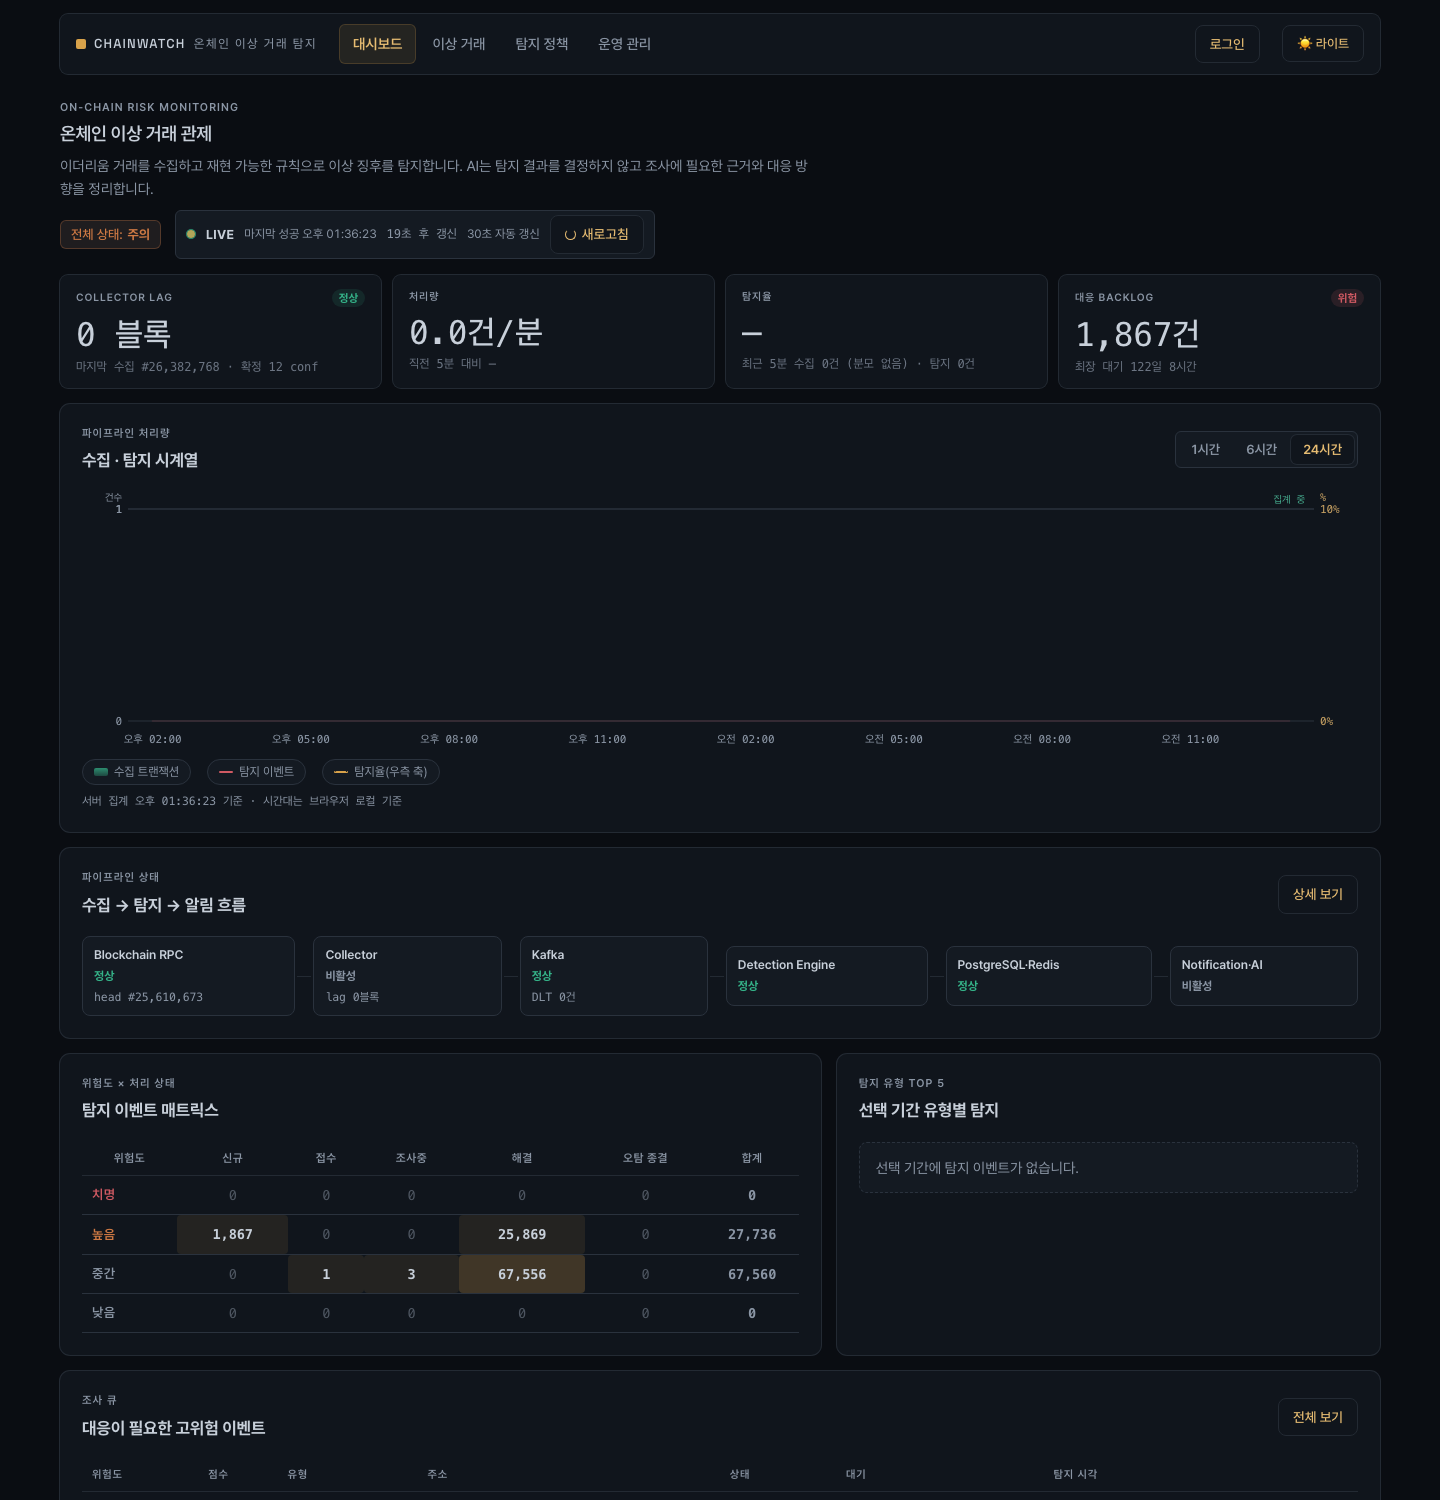
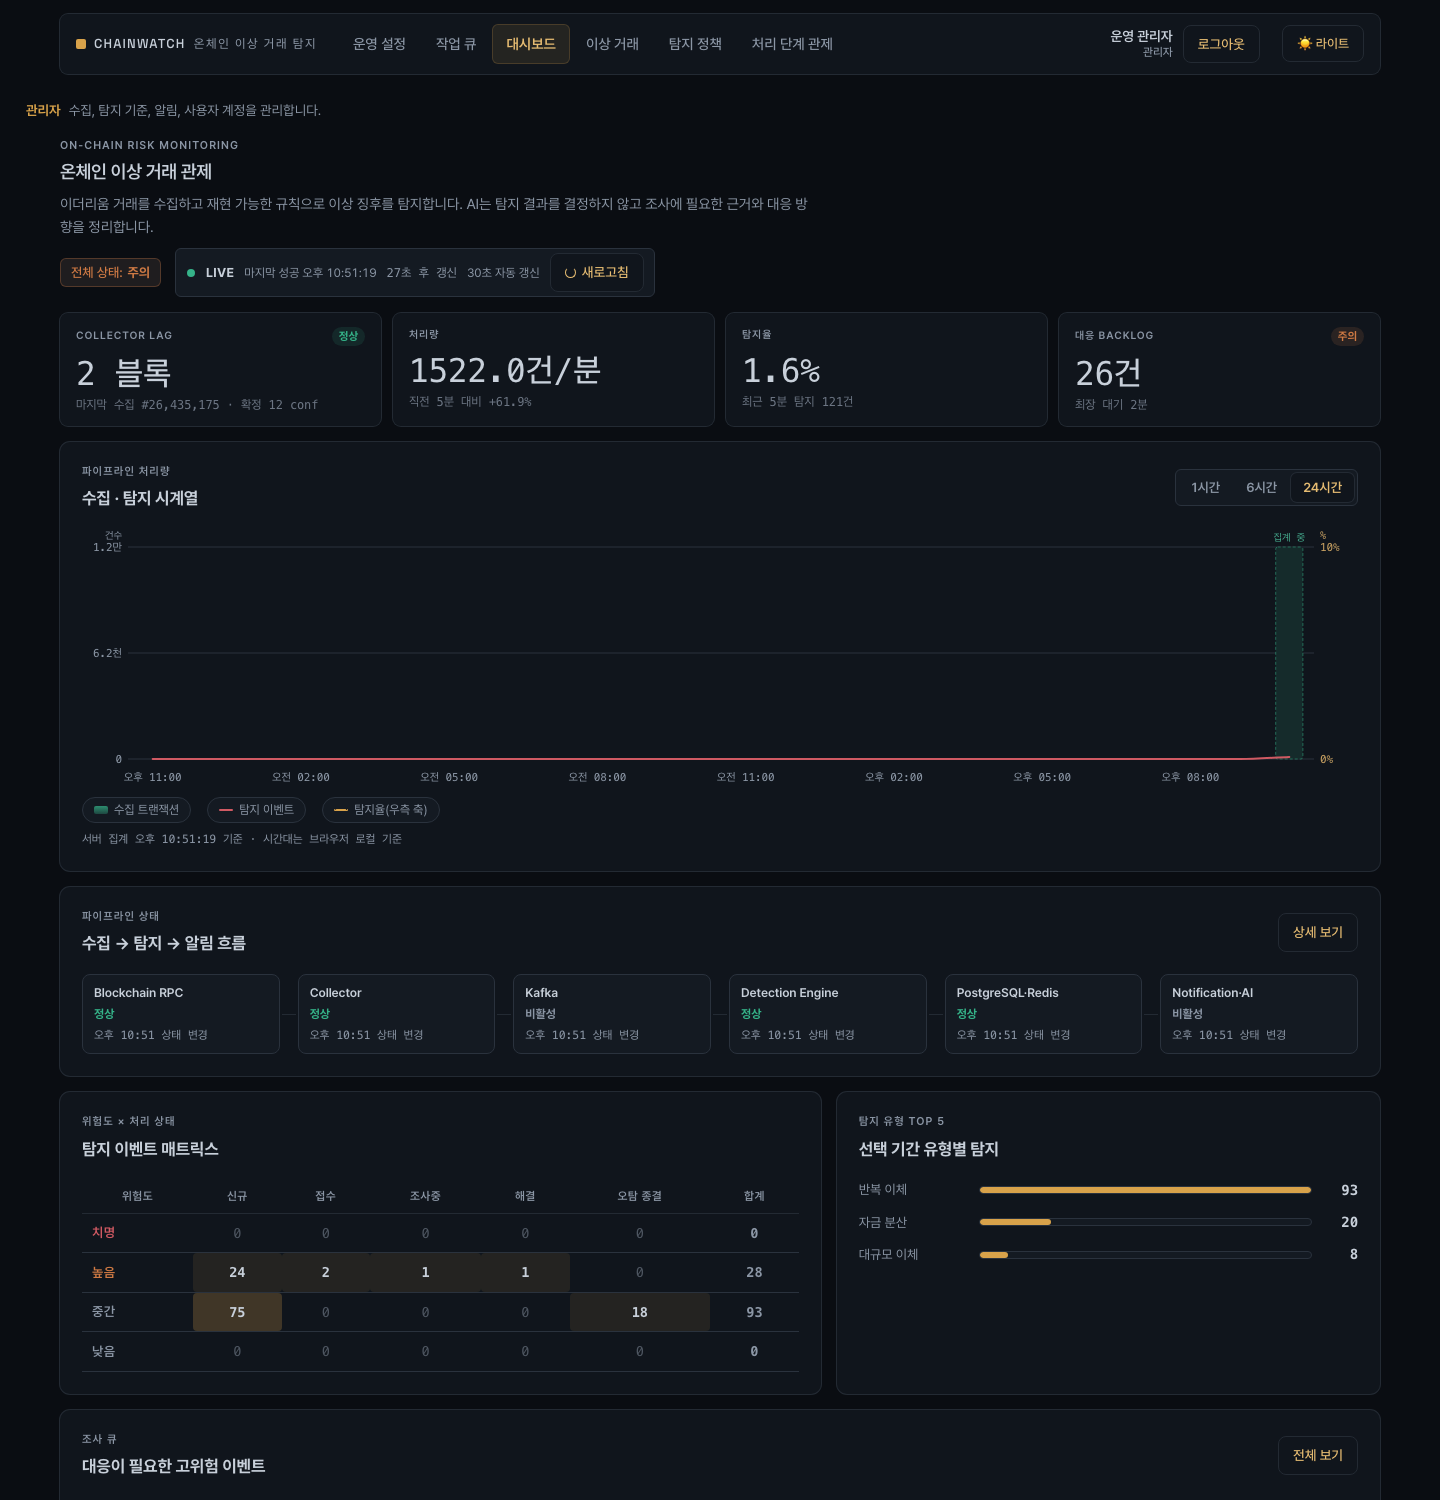
docs: README 기능·화면 설명 갱신 및 화면 캡처 교체
- 역할별 화면 안내와 로그인·작업 큐·운영 설정 캡처 추가
- 대시보드·이상 거래·이벤트 상세 캡처를 현재 화면으로 교체
- 배포 환경의 AI 분석 미연결, 단독 실행 동작 설명 반영

diff --git a/README.md b/README.md
@@ -16,34 +16,58 @@ ChainWatch는 이더리움 블록과 트랜잭션을 수집하고, 규칙 기반
 
 계정이 없어도 로그인 화면의 **둘러보기** 버튼으로 조회자 또는 분석가 화면에 바로 들어갈 수 있습니다.
 
-프런트엔드는 Cloudflare Workers, 백엔드는 Render에 배포되어 있으며 `main`의 CI가 성공하면 자동으로 재배포됩니다. Render 무료 인스턴스는 일정 시간 요청이 없으면 중지되므로 첫 접속 시 응답까지 시간이 걸릴 수 있습니다. 배포 환경은 Kafka·Redis 없이 단독 실행하며 자동 수집과 AI 분석은 꺼져 있습니다.
+프런트엔드는 Cloudflare Workers, 백엔드는 Render에 배포되어 있으며 `main`의 CI가 성공하면 자동으로 재배포됩니다. Render 무료 인스턴스는 일정 시간 요청이 없으면 중지되므로 첫 접속 시 응답까지 시간이 걸릴 수 있습니다. 배포 환경은 Kafka·Redis 없이 단독 실행하며 AI 분석 서버는 연결되어 있지 않습니다. 이 구성에서는 AI 분석 요청 버튼과 재분석 메뉴가 표시되지 않고, 탐지와 이벤트 처리는 규칙 근거만으로 동작합니다. 블록 수집은 관리자가 운영 설정에서 수동으로 실행하거나 자동 수집을 켜서 진행합니다.
 
 ## 주요 기능
 
-- 이더리움 RPC·Etherscan 기반 블록·트랜잭션 수집 (폴링, WebSocket)
-- 고액 송금, 반복 송금, 자금 분산 등 규칙 기반 이상 거래 탐지와 탐지 근거 저장
-- Claude·Gemini·로컬 LLM을 이용한 이벤트 분석 리포트와 제공자 폴백
-- 분석가 작업 큐, 이벤트 처리 이력·코멘트, 일괄 처리, 지갑별 거래 상대 조회
+- 이더리움 RPC·Etherscan 기반 블록·트랜잭션 수집 (수동 수집, 자동 폴링, WebSocket)
+- 대규모 이체, 반복 이체, 자금 분산, 관심 주소, 거래소 입출금, 제재 주소 규칙 기반 탐지와 탐지 근거 저장
+- 같은 지갑의 반복 탐지를 재탐지 억제 시간 동안 이벤트 1건으로 묶어 분석가 큐가 넘치지 않게 함
+- 분석가 작업 큐, 이벤트 처리 이력·코멘트, 일괄 처리, 재오픈, 지갑별 거래 상대 조회
 - 분석가의 탐지 예외 주소 제안과 관리자 승인으로 오탐을 탐지 기준에 반영
+- 관리자 설정 화면에서 수집, 탐지 임계값·주소 목록, 알림, 사용자 계정을 재시작 없이 변경
 - 조회자·분석가·관리자 역할별 화면과 접근 제어(JWT), 감사 로그, Slack·Discord 알림
+- Claude·Gemini·로컬 LLM을 이용한 이벤트 분석 리포트와 제공자 폴백 (AI 분석 서버를 연결한 환경)
 - Prometheus·Grafana 모니터링
 
 ## 화면
 
+모든 화면은 로그인이 필요하고, 로그인한 역할에 따라 메뉴와 첫 화면이 달라집니다.
+
+| 역할 | 첫 화면 | 하는 일 |
+|---|---|---|
+| 조회자 | 대시보드 | 탐지 현황, 이상 거래와 탐지 근거, 적용 중인 규칙 조회 |
+| 분석가 | 작업 큐 | 이벤트를 맡아 접수 → 조사중 → 해결·오탐 종결로 처리, 예외 주소 제안 |
+| 관리자 | 운영 설정 | 블록 수집, 탐지 기준, 알림, 사용자 계정, 감사 로그 관리 |
+
+![로그인 화면](docs/images/login.png)
+
+*역할별로 할 수 있는 일을 안내하고, 계정 없이 조회자·분석가 화면을 둘러볼 수 있습니다.*
+
+### 분석가
+
+| 작업 큐 | 이벤트 상세 |
+|---|---|
+| <img src="docs/images/work-queue.png" alt="분석가 작업 큐 화면"> | <img src="docs/images/event-detail.png" alt="이벤트 상세 화면"> |
+| 내가 맡은 미완료 건과 아직 아무도 맡지 않은 고위험 건을 위험 점수와 대기 시간 순으로 보여줍니다. "내가 맡기"로 가져오면 접수 상태가 됩니다. | 규칙이 발화한 근거(기준 금액, 관측 금액)와 온체인 트랜잭션 증거를 나란히 보여주고, 상태 변경·담당자 지정·코멘트가 처리 이력으로 쌓입니다. |
+
+![이상 거래 목록](docs/images/events.png)
+
+*탐지된 이벤트를 유형, 위험도, 처리 상태, 지갑 주소로 검색하고 여러 건을 선택해 한 번에 처리합니다.*
+
+### 관리자
+
+![운영 설정 개요](docs/images/admin.png)
+
+*수집, 탐지 기준, 알림, 예외 주소 제안, 사용자, 시스템 상태의 현재 값을 카드로 보여주고 각 설정 화면으로 이동합니다. 변경은 재시작 없이 적용되고 감사 로그에 기록됩니다.*
+
+### 대시보드
+
 ![운영 대시보드](docs/images/dashboard.png)
 
-*수집 지연, 처리량, 탐지율과 미처리 backlog를 확인하고, 수집 → 탐지 → 알림 파이프라인의 단계별 상태와 위험도 × 처리 상태 매트릭스를 한 화면에서 봅니다.*
+*수집 지연, 처리량, 탐지율, 미처리 backlog와 수집 → 탐지 → 알림 단계별 상태, 위험도 × 처리 상태 매트릭스를 한 화면에서 봅니다.*
 
-| 이상 거래 검토 | 이벤트 상세 |
-|---|---|
-| <img src="docs/images/events.png" alt="이상 거래 목록 화면"> | <img src="docs/images/event-detail.png" alt="이벤트 상세 화면"> |
-| 규칙이 탐지한 이벤트를 유형, 위험도, 처리 상태, 지갑 주소로 검색합니다. | 위험 점수와 규칙이 발화한 근거(임계값, 관측값, 집계 구간), 온체인 트랜잭션 증거를 나란히 보여줍니다. |
-
-![탐지 정책](docs/images/rules.png)
-
-*현재 적용 중인 규칙별 임계값과 기본 위험 점수를 확인합니다. 관리자는 운영 관리 화면에서 임계값, 자동 수집, 웹훅 알림을 재시작 없이 변경합니다.*
-
-> 위 화면은 로컬 Docker 환경에서 이전에 수집한 메인넷 데이터로 캡처했습니다.
+> 위 화면은 배포 환경과 같은 단독 실행 구성(Kafka·Redis·AI 분석 없음)을 로컬에 띄우고 이더리움 메인넷 블록을 수집해 캡처했습니다.
 
 ## 시스템 구조
 
@@ -66,7 +90,7 @@ flowchart LR
     K --> M[Prometheus / Grafana]
 ```
 
-수집·탐지·알림 단계는 Kafka로 분리되어 있어 외부 서비스가 느려져도 전체 파이프라인이 함께 멈추지 않습니다. 처리 흐름과 탐지 규칙, AI 분석 방식은 [시스템 구조 문서](docs/architecture.md)에 정리했습니다.
+수집·탐지·알림 단계는 Kafka로 분리되어 있어 외부 서비스가 느려져도 전체 파이프라인이 함께 멈추지 않습니다. Kafka와 Redis 없이 실행하면 수집 요청 안에서 탐지를 바로 수행하고, 최신 피드는 DB에서 읽습니다. 처리 흐름과 탐지 규칙, AI 분석 방식은 [시스템 구조 문서](docs/architecture.md)에 정리했습니다.
 
 ## 기술 스택
 
